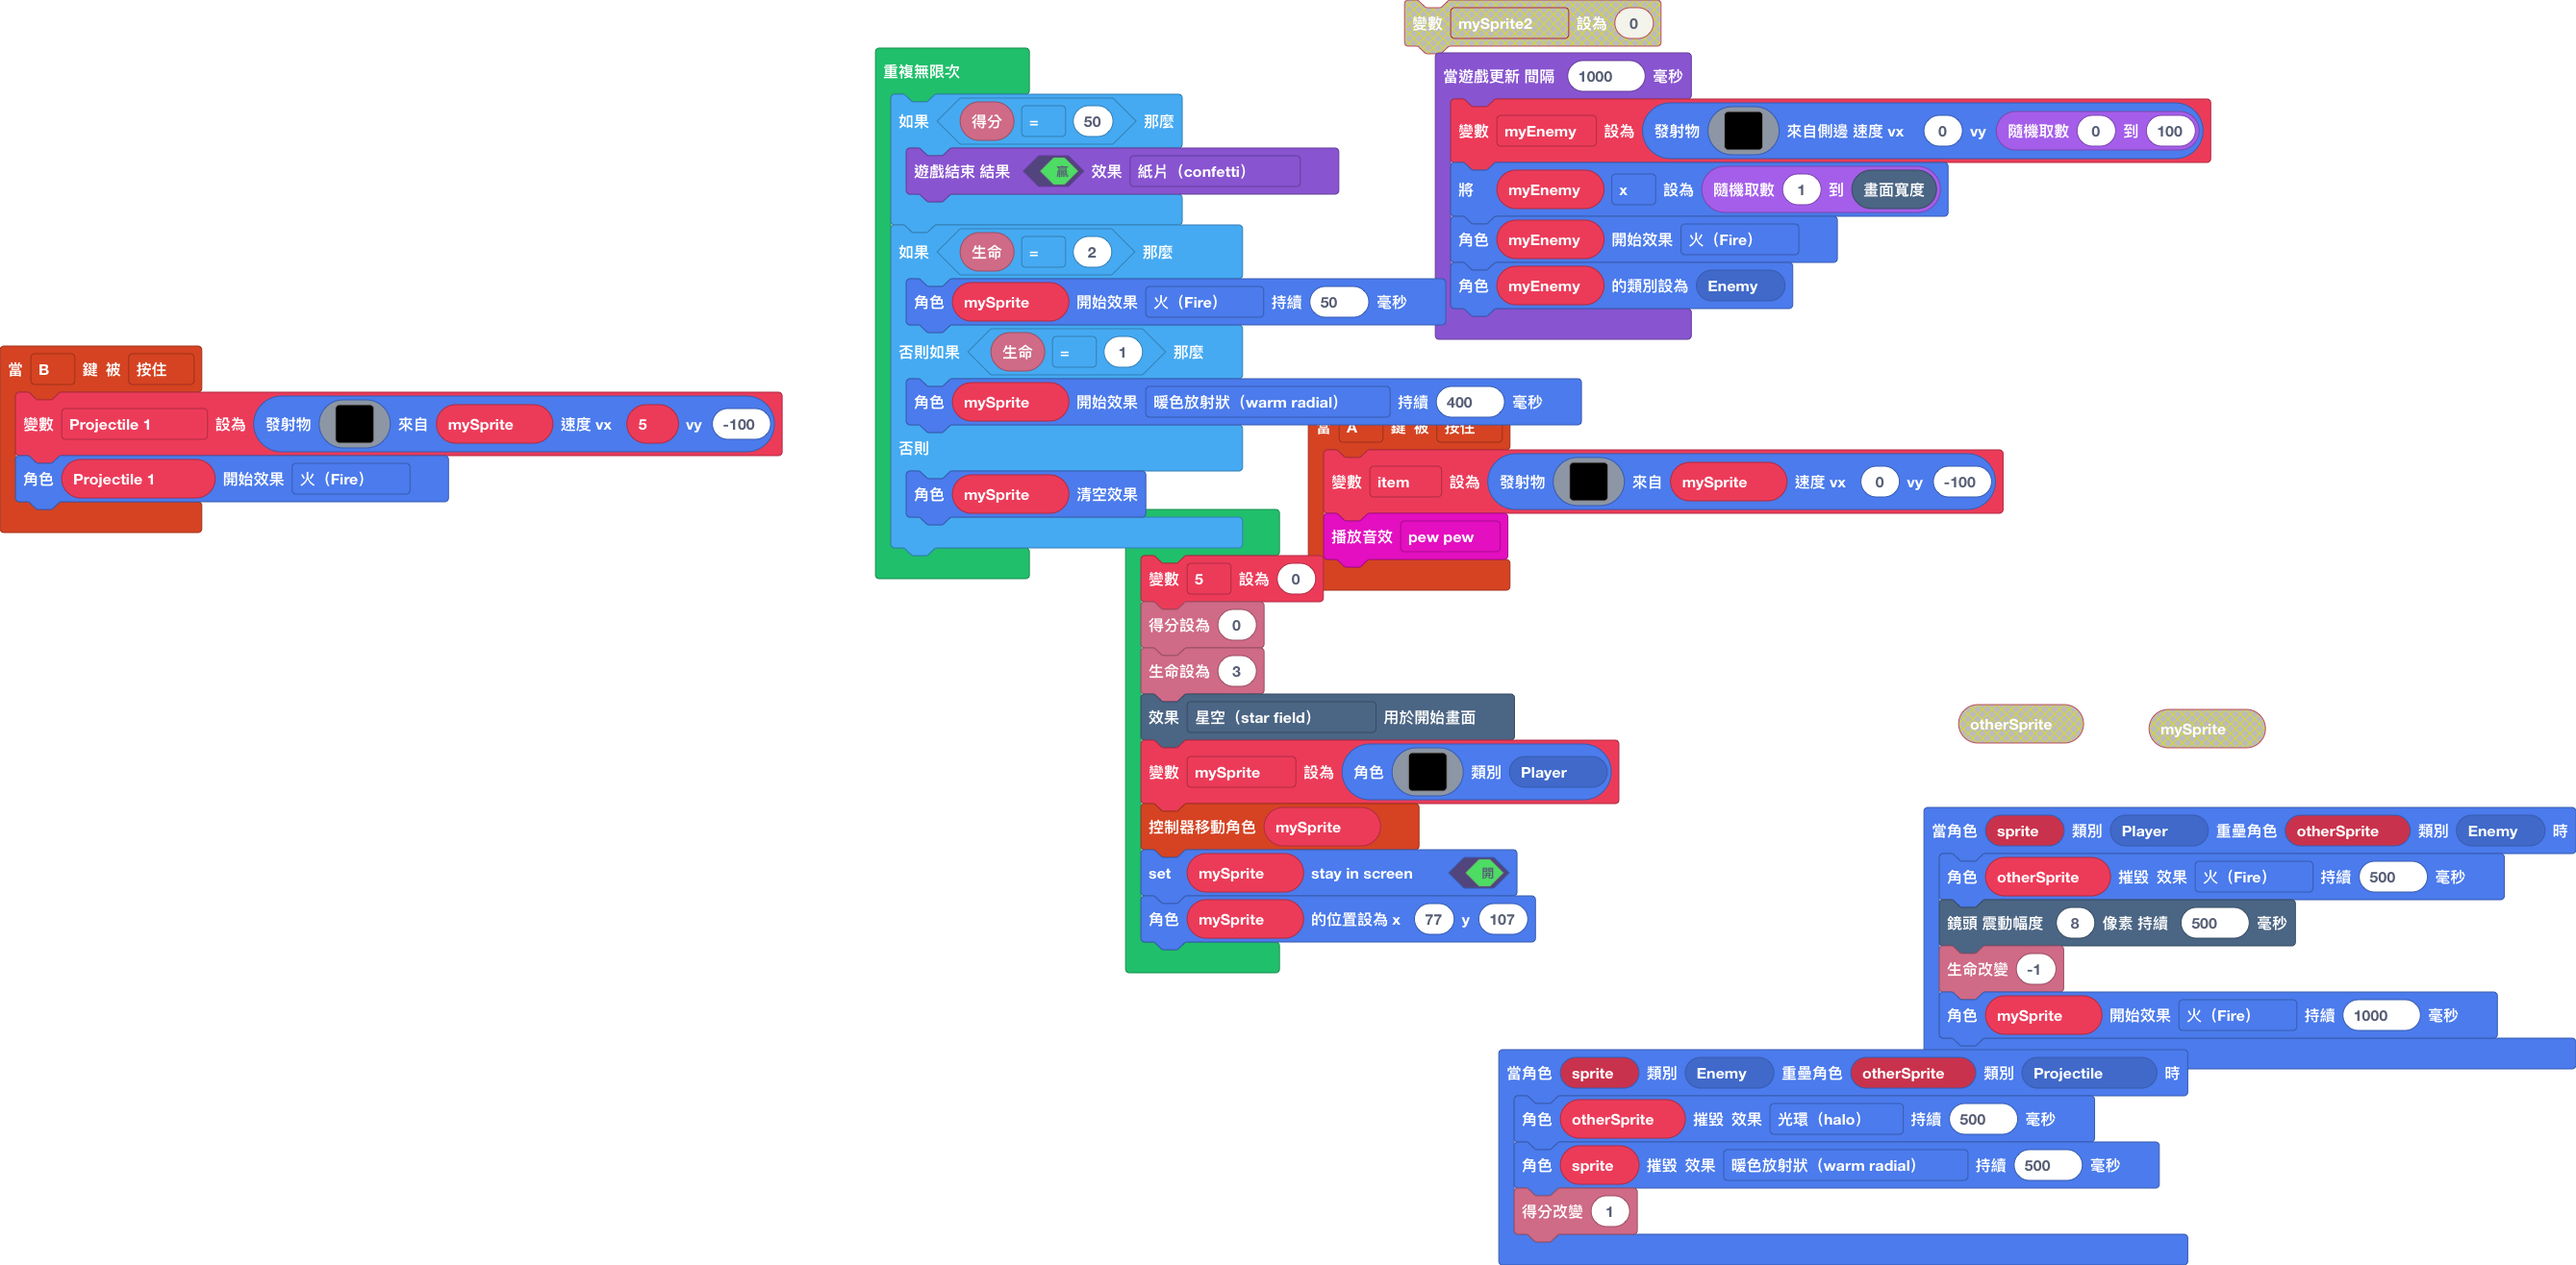
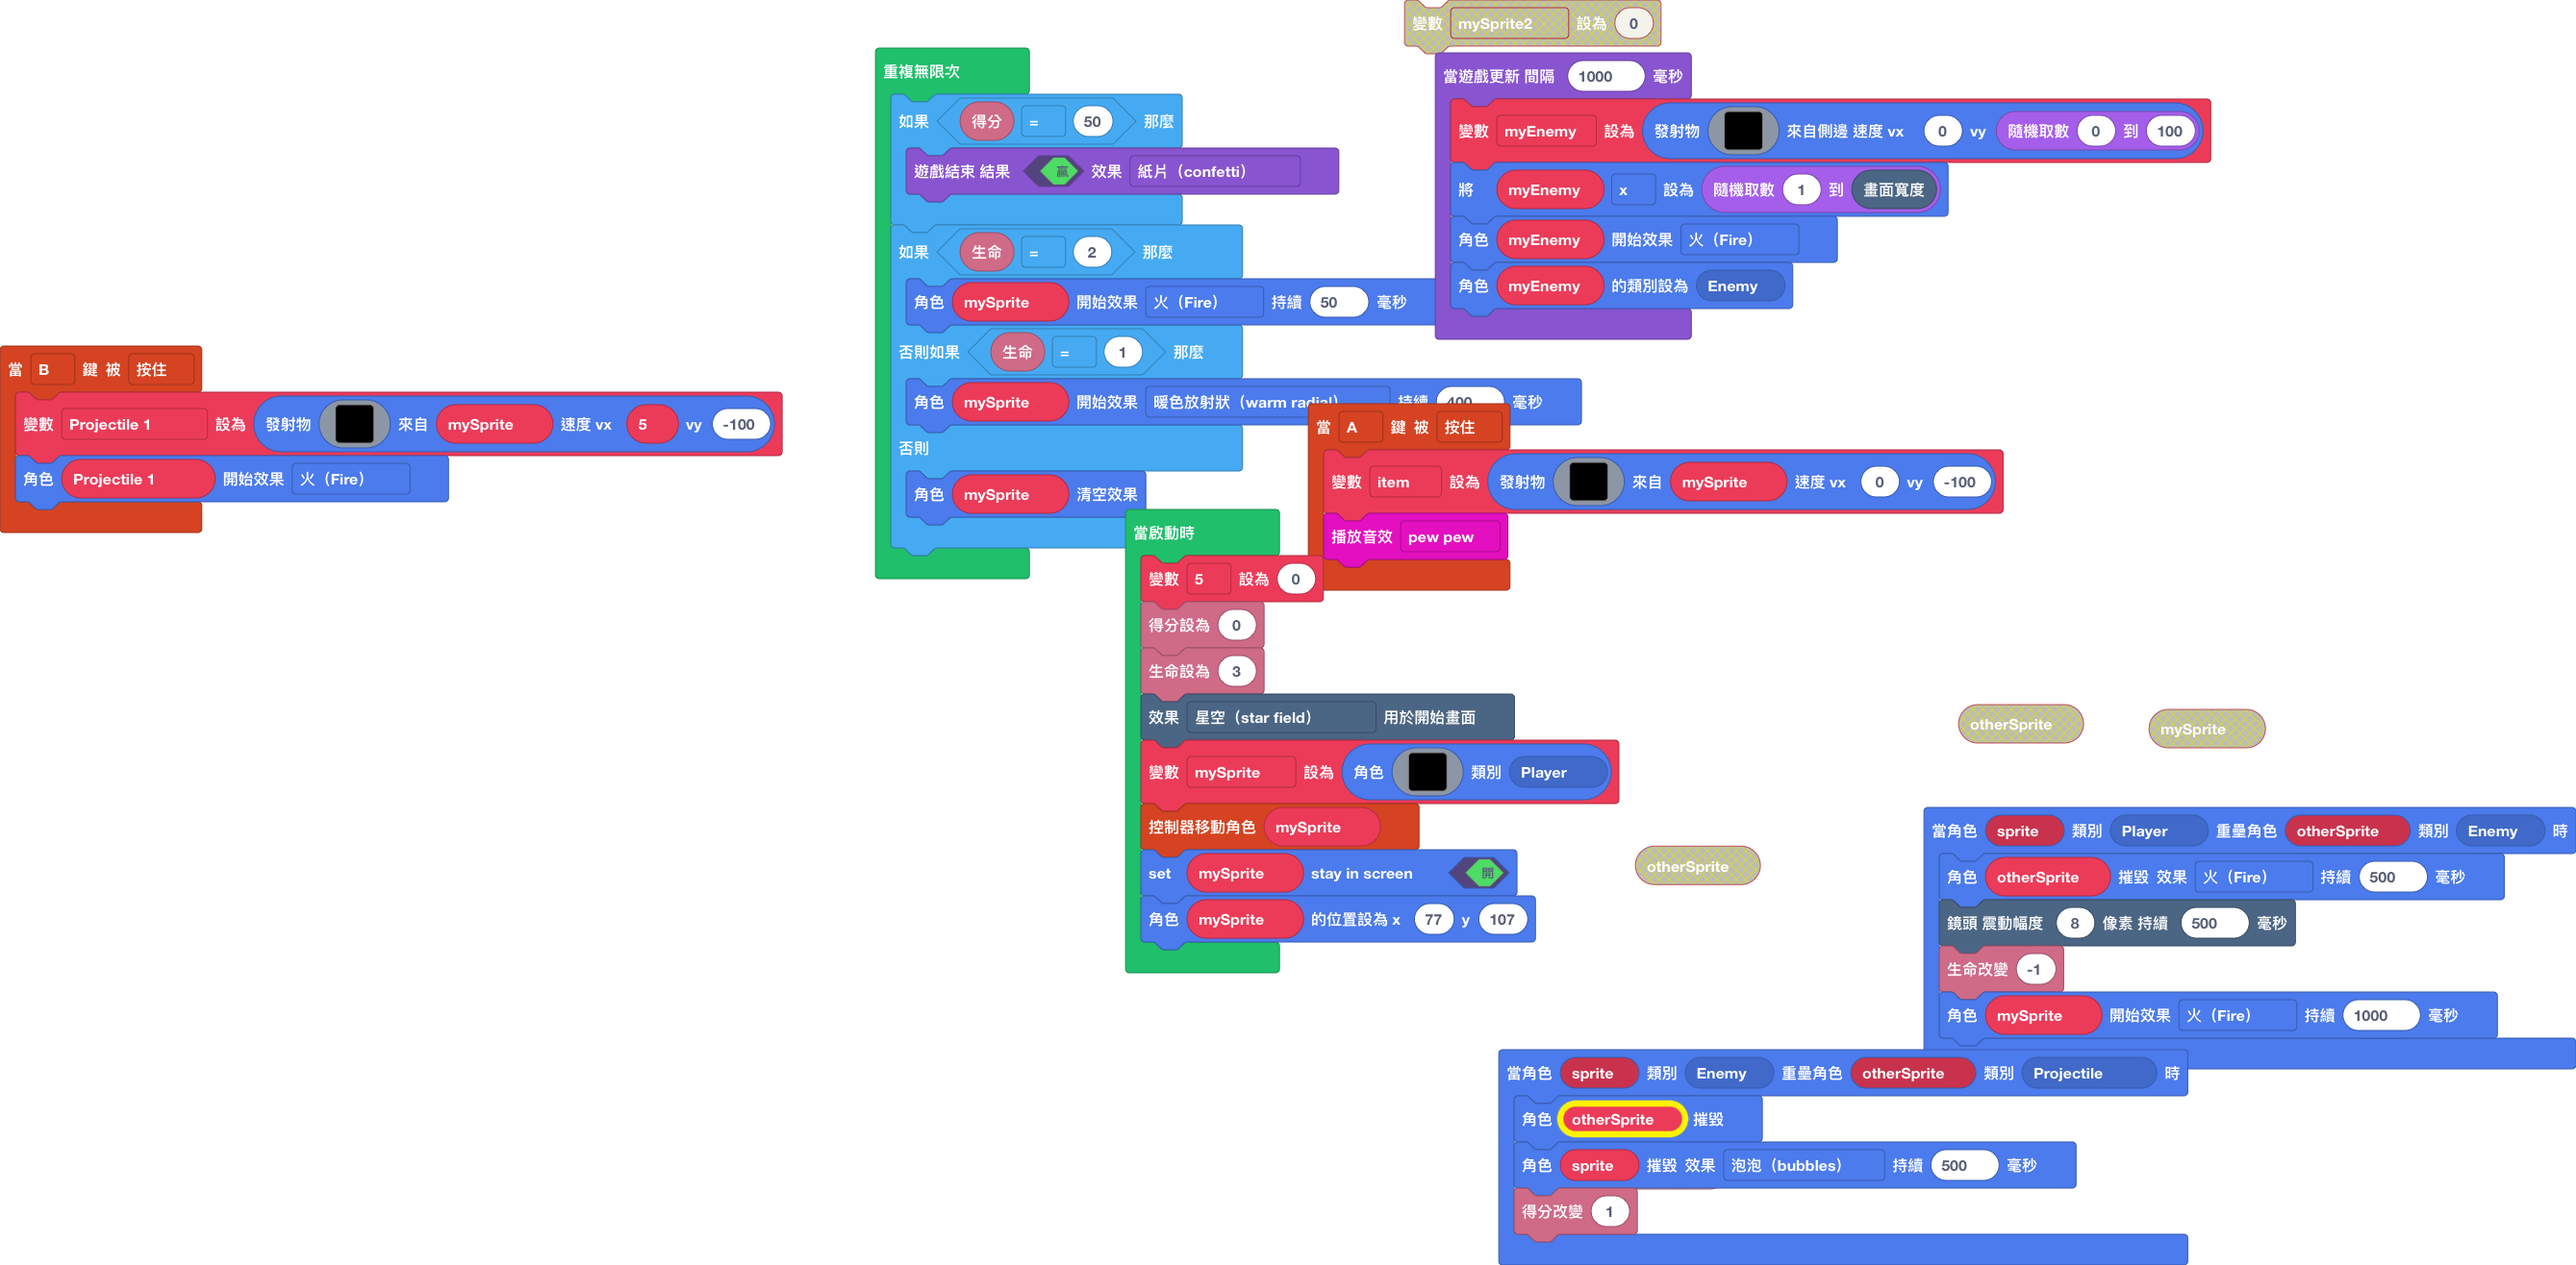
更新 main.blocks, main.ts

diff --git a/main.ts b/main.ts
@@ -20,8 +20,8 @@ controller.A.onEvent(ControllerButtonEvent.Pressed, function () {
     music.pewPew.play()
 })
 sprites.onOverlap(SpriteKind.Enemy, SpriteKind.Projectile, function (sprite, otherSprite) {
-    otherSprite.destroy(effects.halo, 500)
-    sprite.destroy(effects.warmRadial, 500)
+    otherSprite.destroy()
+    sprite.destroy(effects.bubbles, 500)
     info.changeScoreBy(1)
 })
 controller.B.onEvent(ControllerButtonEvent.Pressed, function () {
